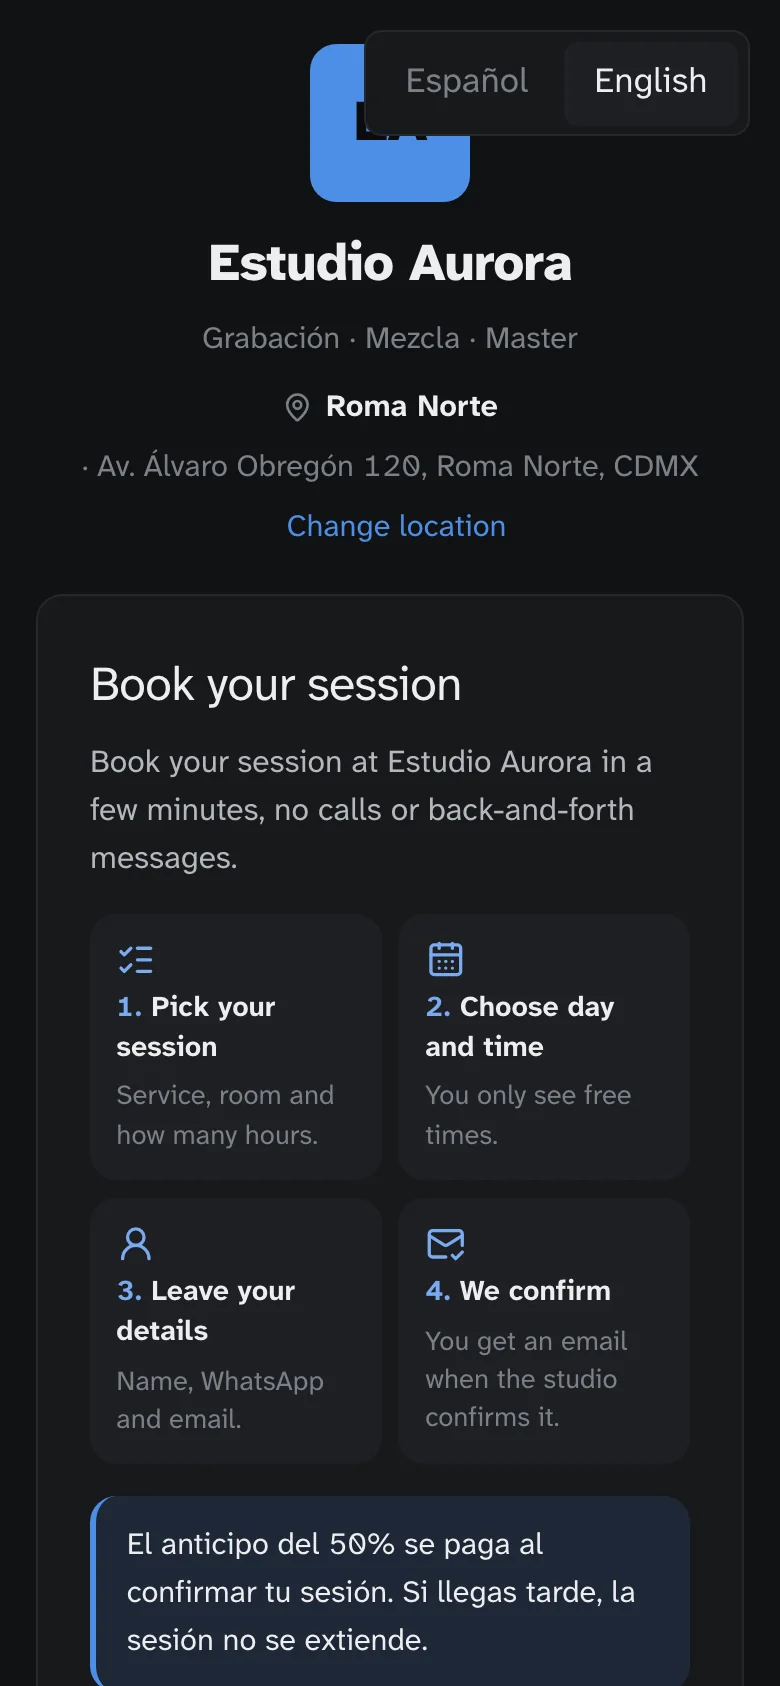
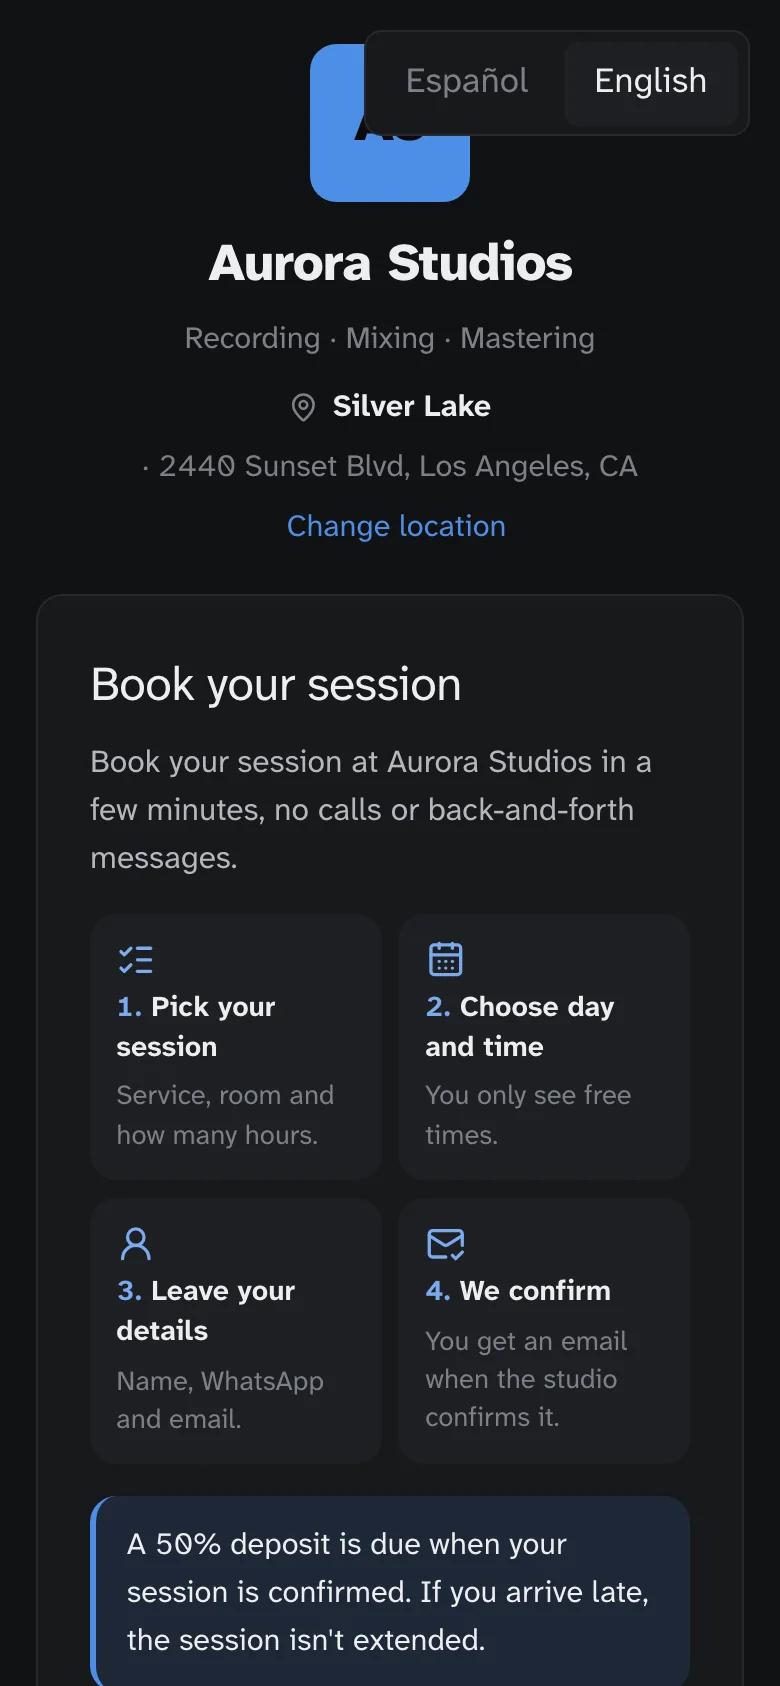
Live demo back in the hero (es/en studios), English screenshots from Aurora Studios, localized day-line sample data

diff --git a/landing.html b/landing.html
@@ -521,6 +521,7 @@ if(c!=='es'){d.classList.add('i18n-pending');setTimeout(function(){d.classList.r
       <div class="float-frame-bar"><i></i><i></i><i></i><span class="float-frame-url">demo.foldback.io</span></div>
       <div class="float-view">
         <img class="shot" src="dashboard-resumen.webp" data-src-en="dashboard-resumen-en.webp" width="2800" height="1800" alt="Demo del panel" data-i18n-alt="hero.iframe" decoding="async" />
+        <iframe title="Demo del panel" data-i18n-title="hero.iframe" loading="lazy" scrolling="no" tabindex="-1"></iframe>
       </div>
     </a>
     <div class="hero-spacer"></div>
@@ -663,24 +664,24 @@ if(c!=='es'){d.classList.add('i18n-pending');setTimeout(function(){d.classList.r
         <div class="dia-cuerpo" role="region" tabindex="0" aria-label="El día de un estudio de ejemplo: tres salas con sus sesiones, la siguiente resaltada y una línea que marca la hora actual." data-i18n-aria-label="dia.aria">
         <div class="dia-regla"><span></span><div class="dia-horas"><span>10</span><span>11</span><span>12</span><span>13</span><span>14</span><span>15</span><span>16</span><span>17</span><span>18</span><span>19</span><span>20</span><span>21</span></div></div>
         <div class="dia-fila">
-          <div class="dia-sala"><span class="ini">S</span><div><b>Sala A</b><small>Roma Norte</small></div></div>
+          <div class="dia-sala"><span class="ini" data-i18n="dia.s1i">S</span><div><b data-i18n="dia.s1n">Sala A</b><small data-i18n="dia.s1l">Roma Norte</small></div></div>
           <div class="dia-pista">
-            <div class="dia-bloque hecho" style="left:8.33%;width:25%"><b>Los Neón</b><span data-i18n="dia.t1">11:00 a 14:00</span></div>
+            <div class="dia-bloque hecho" style="left:8.33%;width:25%"><b data-i18n="dia.c1">Los Neón</b><span data-i18n="dia.t1">11:00 a 14:00</span></div>
             <div class="dia-libre" style="left:52%" data-i18n-html="dia.libre">Libre el resto del día. <a href="#reservas">Ofrecer</a></div>
             <div class="dia-ahora primera" style="left:47.5%"><span>15:42</span></div>
           </div>
         </div>
         <div class="dia-fila">
-          <div class="dia-sala"><span class="ini">C</span><div><b>Cabina</b><small>Roma Norte</small></div></div>
+          <div class="dia-sala"><span class="ini" data-i18n="dia.s2i">C</span><div><b data-i18n="dia.s2n">Cabina</b><small data-i18n="dia.s2l">Roma Norte</small></div></div>
           <div class="dia-pista">
-            <div class="dia-bloque siguiente" style="left:50%;width:12.5%"><b>La Sobremesa</b><span data-i18n="dia.t2">16:00 a 17:30</span></div>
+            <div class="dia-bloque siguiente" style="left:50%;width:12.5%"><b data-i18n="dia.c2">La Sobremesa</b><span data-i18n="dia.t2">16:00 a 17:30</span></div>
             <div class="dia-ahora" style="left:47.5%"></div>
           </div>
         </div>
         <div class="dia-fila">
-          <div class="dia-sala"><span class="ini">S</span><div><b>Sala B</b><small>Coyoacán</small></div></div>
+          <div class="dia-sala"><span class="ini" data-i18n="dia.s3i">S</span><div><b data-i18n="dia.s3n">Sala B</b><small data-i18n="dia.s3l">Coyoacán</small></div></div>
           <div class="dia-pista">
-            <div class="dia-bloque pendiente" style="left:66.66%;width:16.66%"><b>Carla Mendoza</b><span data-i18n="dia.t3">18:00 a 20:00</span></div>
+            <div class="dia-bloque pendiente" style="left:66.66%;width:16.66%"><b data-i18n="dia.c3">Carla Mendoza</b><span data-i18n="dia.t3">18:00 a 20:00</span></div>
             <div class="dia-ahora" style="left:47.5%"></div>
           </div>
         </div>
@@ -1059,6 +1060,7 @@ if(c!=='es'){d.classList.add('i18n-pending');setTimeout(function(){d.classList.r
       renderDotLabels();
       renderPrices();
       renderImages();
+      demoEnVivo();
       enlazarCompra();
       document.querySelectorAll('.lang-code').forEach(c => { c.textContent = currentLang.toUpperCase(); });
       document.querySelectorAll('.lang-menu button').forEach(b => b.setAttribute('aria-selected', String(b.dataset.code === currentLang)));
@@ -1093,16 +1095,14 @@ if(c!=='es'){d.classList.add('i18n-pending');setTimeout(function(){d.classList.r
         if (img.getAttribute('src') !== want) img.setAttribute('src', want);
       });
     }
-    // Idioma del demo incrustado. El demo sigue la cookie fb-idioma y, si no hay, el idioma del navegador.
-    // Solo cuando la persona elige idioma aquí se guarda esa preferencia para todo foldback.io y se recarga el demo.
-    function sincronizarDemo() {
-      const idioma = currentLang === 'es' ? 'es' : 'en';
+    // Demo en vivo del hero: solo en pantallas anchas (en celular se queda la captura, que pesa menos) y en el idioma
+    // elegido, porque el demo tiene un estudio en español (Estudio Aurora) y otro en inglés (Aurora Studios).
+    function demoEnVivo() {
       const f = document.querySelector('.float-view iframe');
-      if (!f) return;
-      try { document.cookie = 'fb-idioma=' + idioma + '; domain=.foldback.io; path=/; max-age=31536000; SameSite=Lax; Secure'; } catch (e) {}
-      if (f.src) { const u = f.src; f.src = 'about:blank'; setTimeout(() => { f.src = u; }, 60); }
+      if (!f || !window.matchMedia('(min-width:761px)').matches) return;
+      const u = 'https://demo.foldback.io/api/demo/entrar?lang=' + (currentLang === 'es' ? 'es' : 'en') + '&next=%2Festudio';
+      if (f.getAttribute('src') !== u) f.setAttribute('src', u);
     }
-
     function renderPrices() {
       if (!precio) return;
       const cur = precio.cur;
@@ -1138,7 +1138,6 @@ if(c!=='es'){d.classList.add('i18n-pending');setTimeout(function(){d.classList.r
         currentLang = code;
         if (persist) { try { localStorage.setItem('fb-lang', code); } catch (e) {} }
         applyDict();
-        if (persist) sincronizarDemo();
       } catch (e) { /* sin traducciones disponibles: se queda el español del HTML */ }
       document.documentElement.classList.remove('i18n-pending');
     }

diff --git a/NOTES.md b/NOTES.md
@@ -36,9 +36,10 @@
 - Demo en inglés (2026-10-21): cada imagen del demo tiene versión en inglés (`*-en.webp`) y la página cambia el `src` según el idioma (`data-src-en`, `renderImages()` en `landing.html`). Las capturas salen del demo con la cookie `fb-idioma=en` (UI en inglés; los datos de muestra, como "Sala A" o "Grabación", siguen en español porque son datos del demo). Para rehacerlas: abrir demo.foldback.io con esa cookie y recortar `main.main` desde el título de cada página a 1772 px de ancho (tarjetas, 1500 px útiles), Mac a 1400x900 a 2x, iPad a 1366x1024 a 1.3177x, teléfono a 480x704 a 2x sin el aviso del demo.
 - Idioma del demo incrustado: solo cuando la persona elige idioma en la landing se guarda la cookie `fb-idioma` en `.foldback.io` y se recarga el iframe (`sincronizarDemo()`); mientras no elija, el demo sigue el idioma del navegador. Si alguien cambia el idioma dentro del demo, su cookie propia del demo puede chocar con esa; lo ideal es que la app acepte `?idioma=` al entrar al demo.
 - Mockup de teléfono: iPhone 18 Pro Max (marco CSS .iphone-frame con isla dinámica). Se probó un iPhone Duo cerrado dibujado en CSS y se descartó por decisión del dueño (2026-10-21); está en el historial de git (commit 283dfa1). Las capturas de teléfono son de 390x843 css a 2x (780x1686); la de reservas se toma después de elegir la sede, porque el demo ya tiene sedes.
-- Demo del hero (2026-10-21): el iframe de demo.foldback.io está bloqueado desde que la app añadió `X-Frame-Options: SAMEORIGIN` y `frame-ancestors 'self'` (next.config.mjs, commit fabbfcd), así que el hero muestra la captura real del panel (`dashboard-resumen(-en).webp`) y enlaza al demo. Para volver al demo en vivo: la app debe permitir `frame-ancestors 'self' https://foldback.io https://www.foldback.io` solo en el despliegue del demo (cuando `DEMO_EMAIL` y `DEMO_PASSWORD` existen) y no mandar X-Frame-Options ahí; después se restaura el `<iframe src="https://demo.foldback.io/estudio" loading="lazy" tabindex="-1">` en `.float-view` (ver git: commit anterior a esta nota) y `sincronizarDemo()` vuelve a funcionar solo.
+- (Histórico, resuelto el 2026-10-23) Demo del hero (2026-10-21): el iframe de demo.foldback.io estaba bloqueado desde que la app añadió `X-Frame-Options: SAMEORIGIN` y `frame-ancestors 'self'` (next.config.mjs, commit fabbfcd), así que el hero muestra la captura real del panel (`dashboard-resumen(-en).webp`) y enlaza al demo. Para volver al demo en vivo: la app debe permitir `frame-ancestors 'self' https://foldback.io https://www.foldback.io` solo en el despliegue del demo (cuando `DEMO_EMAIL` y `DEMO_PASSWORD` existen) y no mandar X-Frame-Options ahí; después se restaura el `<iframe src="https://demo.foldback.io/estudio" loading="lazy" tabindex="-1">` en `.float-view` (ver git: commit anterior a esta nota) y `sincronizarDemo()` vuelve a funcionar solo.
 - Direcciones cortas de lo legal (2026-10-22): foldback.io/terminos (y /terms) y foldback.io/privacidad (y /privacy) redirigen (307) a las páginas oficiales de la app, que son el único texto vigente (vercel.json).
 - Diseño nuevo (2026-10-23): la landing usa el mismo diseño que la app. Fuente de verdad: `FoldBack App/propuesta-diseno/ESPECIFICACIONES-DISENO.md` (solo se lee, no se toca) y `src/app/globals.css` de la app. Tokens en `:root` de `landing.html` (`--plane #111214`, `--surface #17181b`, `--accent #4c8ee6`, `--accent-claro #7aaaf0`, texto sobre el azul `--sobre-acento #0b0c0d`), fuente Atkinson Hyperlegible Next alojada en `fonts/atkinson-latin(.-ext).woff2` (copiada del build de la app), radios `--radio 12px` y `--radio-ctl 8px`. Sin degradados (salvo el oscurecido inferior de la foto del hero y las líneas de horas de la línea del día), sin desenfoques, sin sombras de color, sin botones píldora, sin fuente monoespaciada y sin guiones largos. Textos pequeños sobre tarjetas usan `--muted-panel #868a92` para cumplir contraste AA. La hoja de ejemplo de propuesta conserva Helvetica Neue porque es la tipografía real del documento en la app.
 - Elemento de marca: sección `#dia` ("Todo el día de tu estudio, sala por sala"), la línea del día de la app hecha en HTML con datos de muestra (marcada como ejemplo); en móvil se desliza y el nombre de la sala queda fijo. Se quitó la regla de decibeles y la numeración "CH".
 - Capturas: todas se rehicieron con el demo ya en el diseño nuevo (es y en). Cómo repetirlas: demo.foldback.io con la cookie `fb-idioma`, `main.main` recortado desde el título de cada página a 1772 px de ancho (tarjetas), Mac 1400x900 a 2x, iPad 1366x1024 a 1.3177x, teléfono 390x843 a 2x sin el aviso del demo y con la sede ya elegida en reservas. Hay que repetirlas cuando la app cambie de aspecto.
+- Demo en vivo en el hero (2026-10-23): la app ya permite incrustar el demo desde foldback.io (frame-ancestors) y el demo tiene dos estudios: Estudio Aurora (es) y Aurora Studios (en, Los Ángeles, USD, salas Room A/Room B/Booth, sedes Silver Lake y Burbank). `demoEnVivo()` en `landing.html` pone el iframe en `https://demo.foldback.io/api/demo/entrar?lang=es|en&next=/estudio` solo en pantallas anchas (en celular queda la captura, que pesa menos); la captura queda debajo como imagen mientras carga. Cada carga cuenta como "entrada" en las métricas del demo (el `referer` es foldback.io). Las capturas en inglés salen de Aurora Studios (reservas: demo.foldback.io/reservar/aurora-demo-en/silverlake).
 
